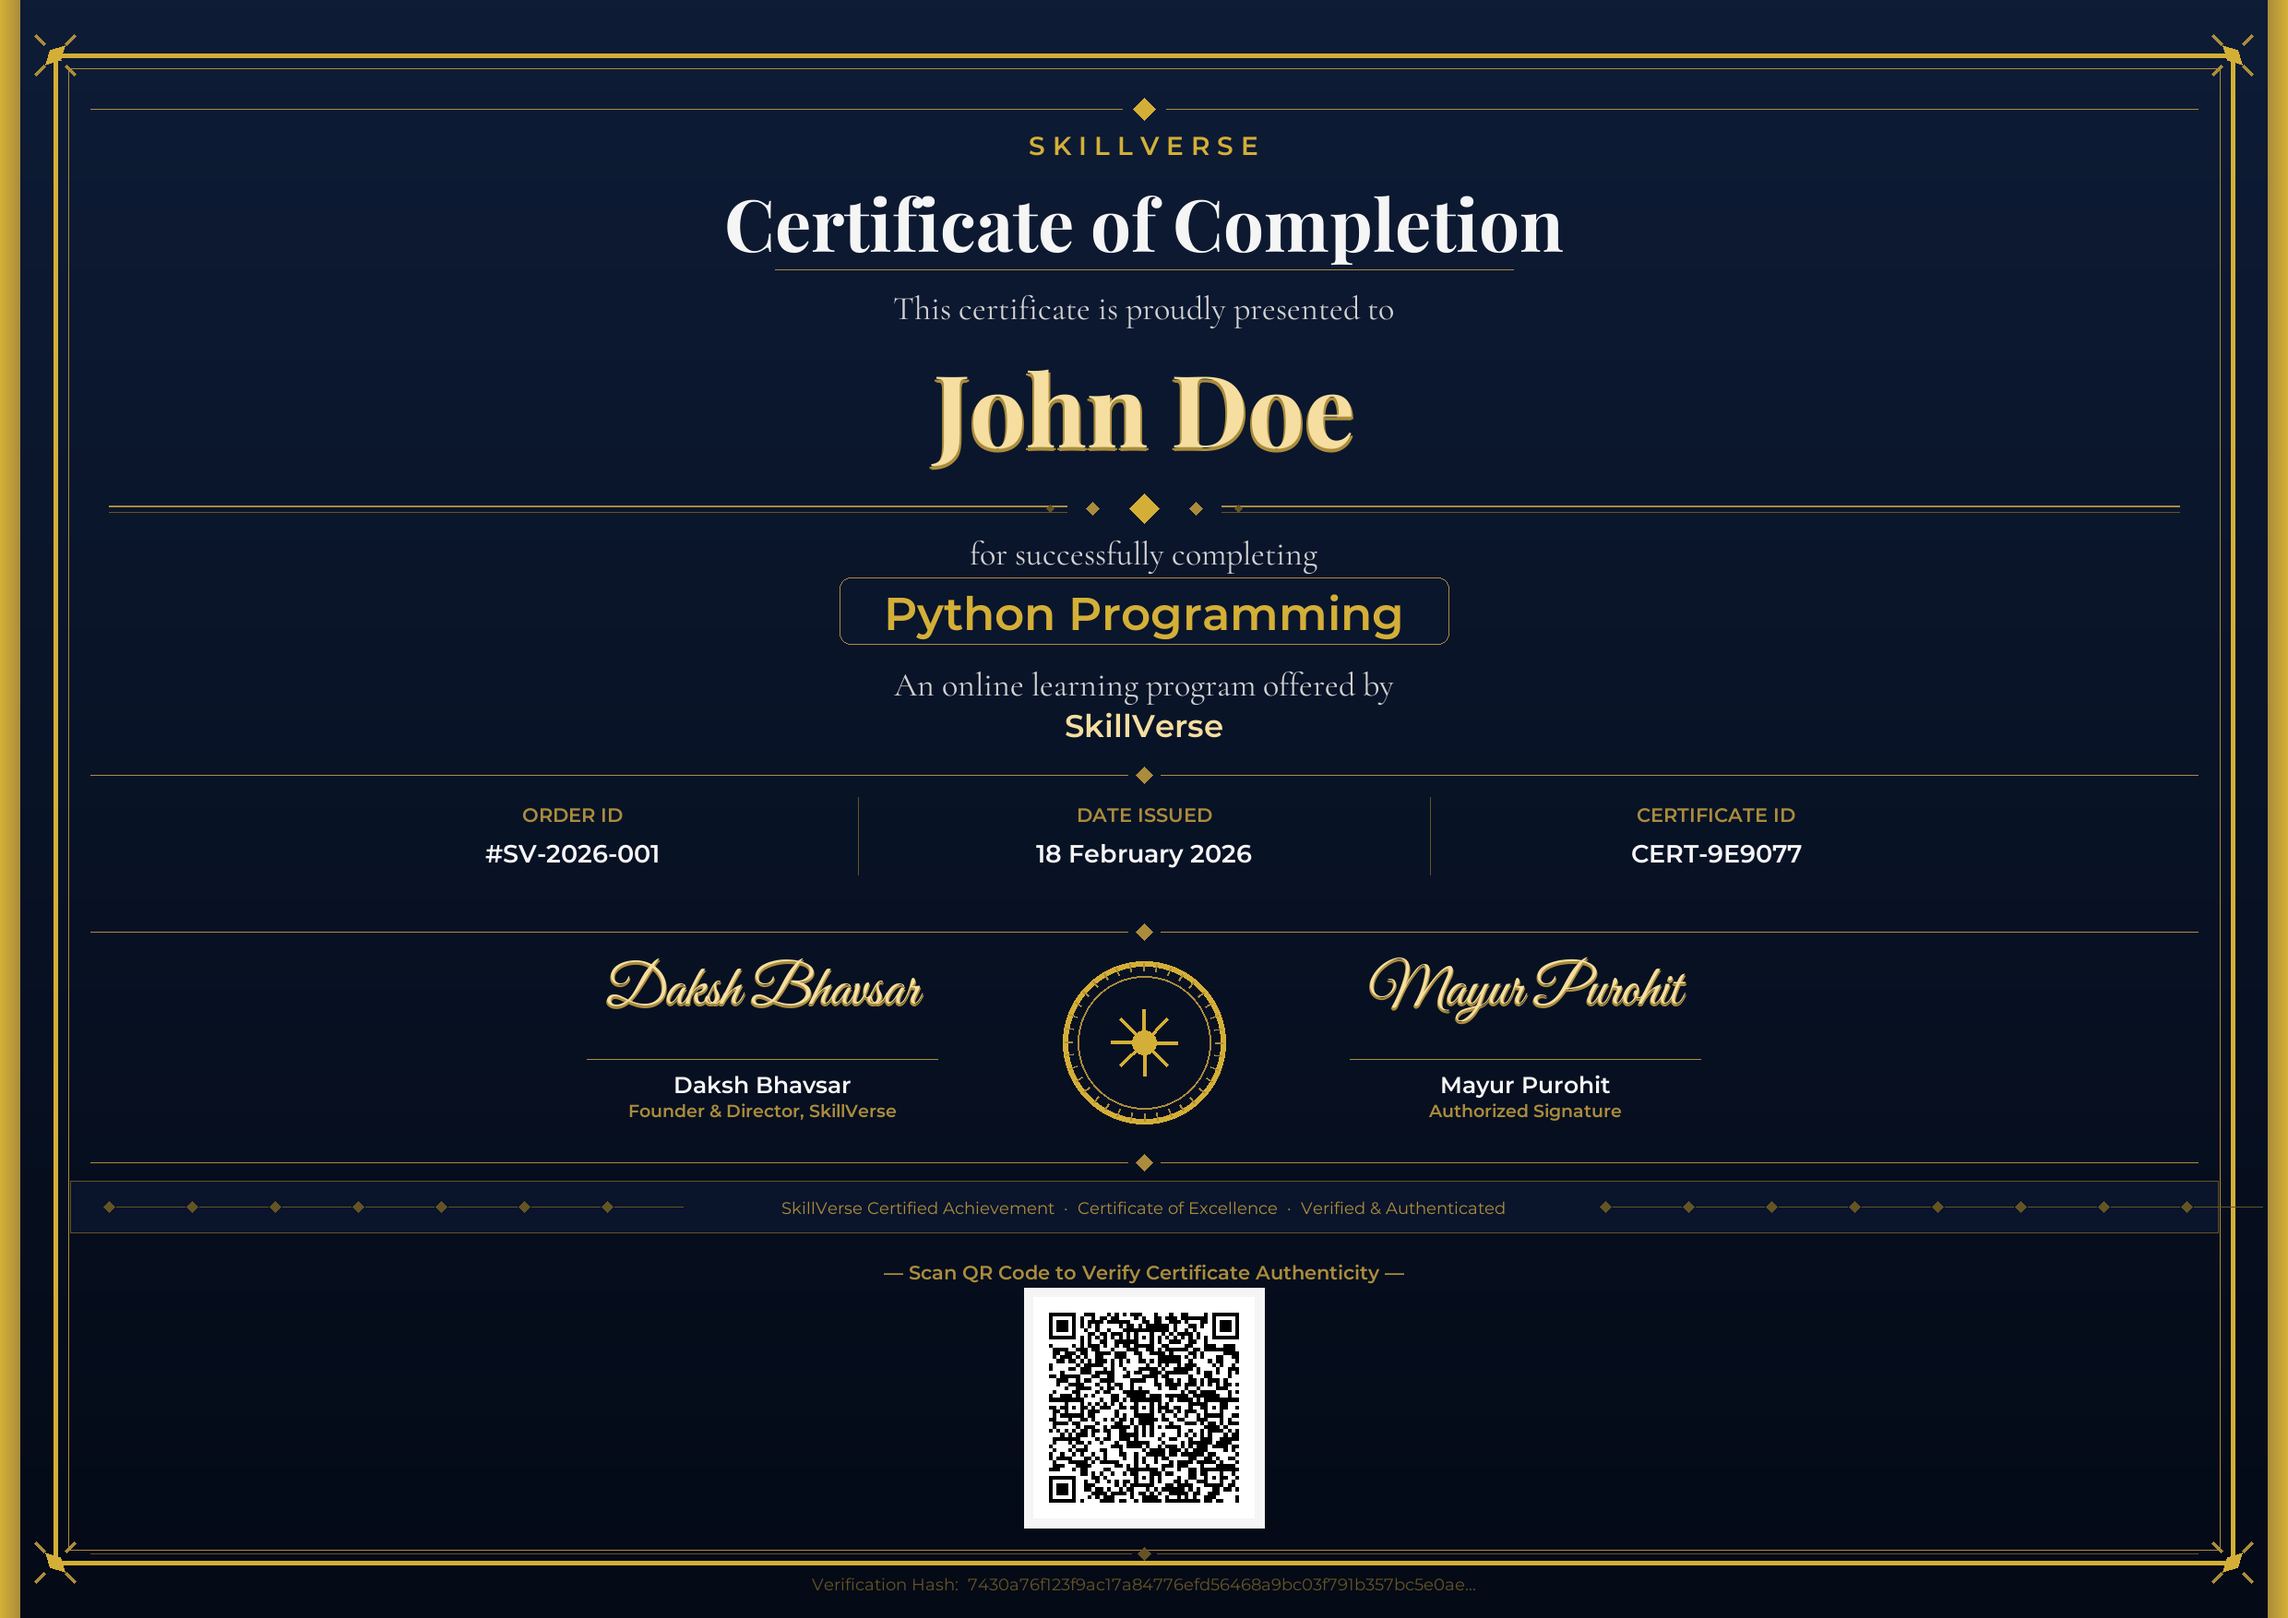
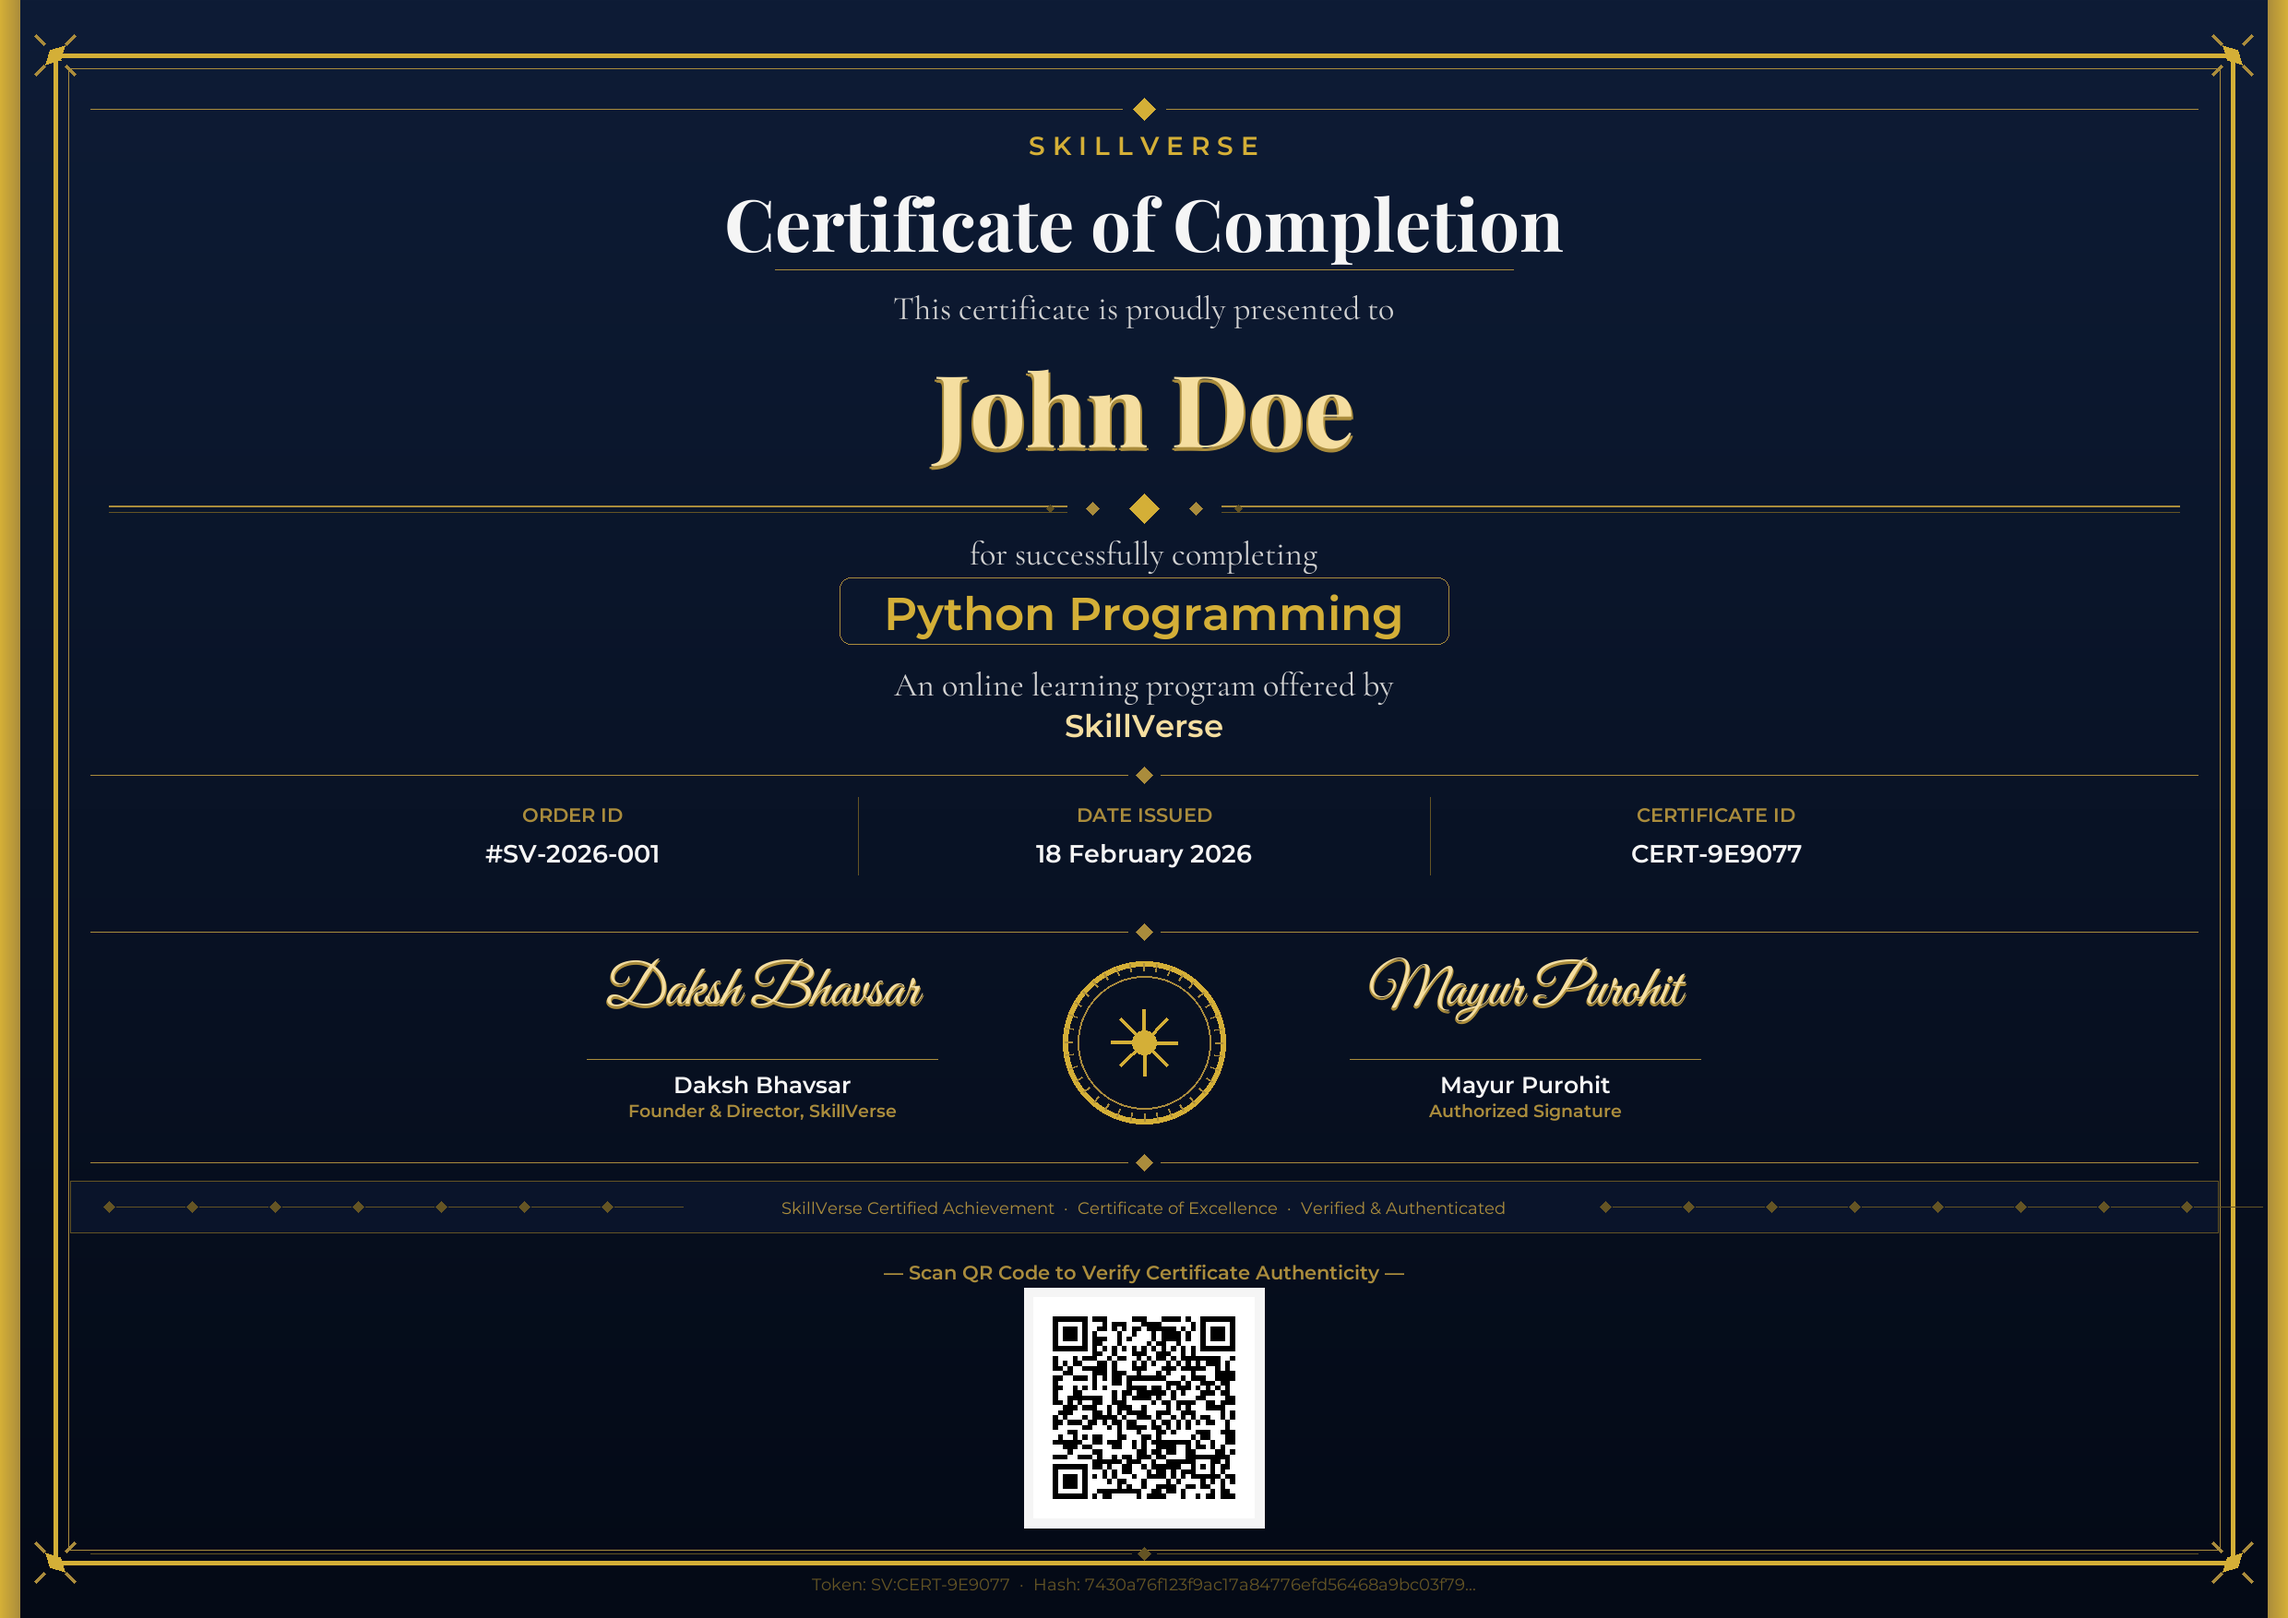
Update certificate generator and regenerate certificate

Changed region(s): [[0.3726, 0.8005, 0.621, 0.9852]]

diff --git a/certificate_generator.py b/certificate_generator.py
@@ -122,11 +122,16 @@ def draw_certificate(student_name, skill_name,
     if completion_date is None:
         completion_date = datetime.now().strftime("%d %B %Y")
 
-    cert_hash  = generate_hash(student_name, skill_name, cert_id, order_id)
-    verify_url = f"https://skillverse-oh9z.onrender.com/verify?cert_id={cert_id}&hash={cert_hash}"
+    cert_hash = generate_hash(student_name, skill_name, cert_id, order_id)
+
+    # QR encodes a compact signed token (not a public URL).
+    # Format:  SV:<cert_id>:<sha256_hash>
+    # Your /verify route decodes this token server-side.
+    # Because there is no URL, search engines cannot crawl or index it.
+    qr_token = f"SV:{cert_id}:{cert_hash}"
 
     QR = 240
-    qr_img = qrcode.make(verify_url).resize((QR, QR))
+    qr_img = qrcode.make(qr_token).resize((QR, QR))
 
     img = Image.new("RGB", (W, H), NAVY)
     _gradient_bg(img)
@@ -312,7 +317,7 @@ def draw_certificate(student_name, skill_name,
     # ZONE 5 – HASH FOOTER
     # ════════════════════════════════════════════════════════
     hash_y = qr_y + QR + pad + 50
-    _cx(draw, f"Verification Hash:  {cert_hash[:52]}...", hash_y, f_tiny, GOLD_FAINT)
+    _cx(draw, f"Token: SV:{cert_id}  ·  Hash: {cert_hash[:40]}...", hash_y, f_tiny, GOLD_FAINT)
 
     return img
 
